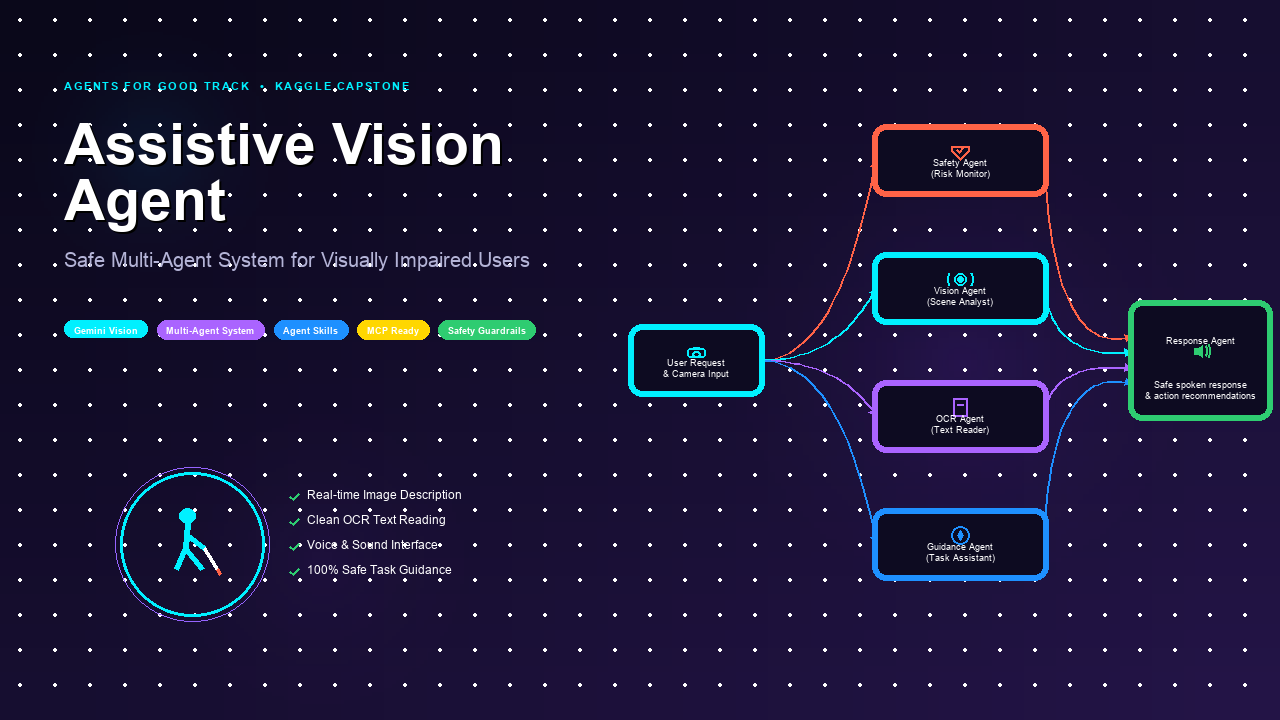
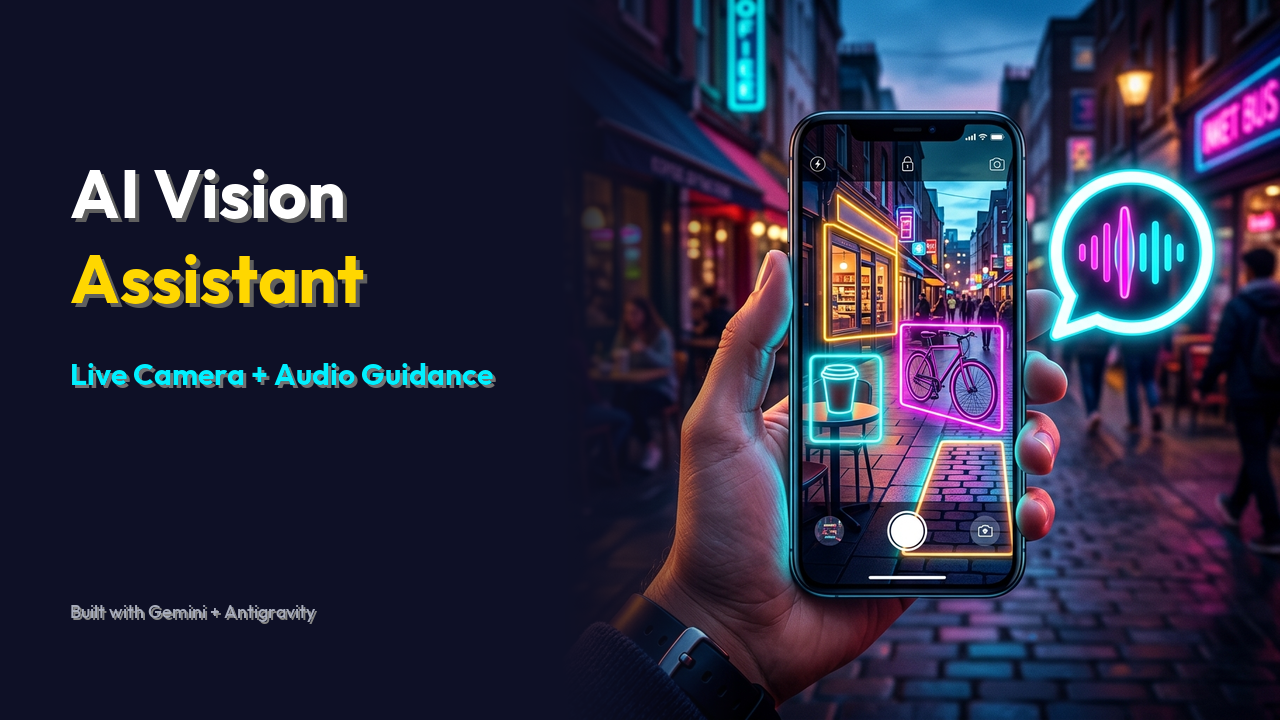
assets updated

diff --git a/assets/generate_visuals.py b/assets/generate_visuals.py
@@ -1,0 +1,270 @@
+import os
+import urllib.request
+import ssl
+from PIL import Image, ImageDraw, ImageFont, ImageFilter
+
+# Disable SSL verification for font downloads
+ssl._create_default_https_context = ssl._create_unverified_context
+
+# Paths
+BASE_DIR = "/Users/nikhilgollachannu/Desktop/KaggleCapstone/assistive-agent-vision"
+ASSETS_DIR = os.path.join(BASE_DIR, "assets")
+FONTS_DIR = os.path.join(ASSETS_DIR, "fonts")
+
+# Input generated images
+CARD_BASE_PATH = "/Users/nikhilgollachannu/.gemini/antigravity-ide/brain/baa18d08-56a4-4f38-a9a7-698bde54fbc6/assistive_vision_card_base_1782230559153.png"
+THUMBNAIL_BASE_PATH = "/Users/nikhilgollachannu/.gemini/antigravity-ide/brain/baa18d08-56a4-4f38-a9a7-698bde54fbc6/assistive_vision_thumbnail_base_1782230578253.png"
+
+# Output paths
+CARD_OUT_PATH = os.path.join(ASSETS_DIR, "kaggle_cover.png")
+THUMBNAIL_OUT_PATH = os.path.join(ASSETS_DIR, "youtube_thumbnail.png")
+
+def download_fonts():
+    os.makedirs(FONTS_DIR, exist_ok=True)
+    
+    fonts = {
+        "Outfit-Bold.ttf": "https://raw.githubusercontent.com/Outfitio/Outfit-Fonts/main/fonts/ttf/Outfit-Bold.ttf",
+        "Outfit-Medium.ttf": "https://raw.githubusercontent.com/Outfitio/Outfit-Fonts/main/fonts/ttf/Outfit-Medium.ttf",
+        "Outfit-Regular.ttf": "https://raw.githubusercontent.com/Outfitio/Outfit-Fonts/main/fonts/ttf/Outfit-Regular.ttf"
+    }
+    
+    print("Checking/Downloading fonts...")
+    for font_name, url in fonts.items():
+        path = os.path.join(FONTS_DIR, font_name)
+        if not os.path.exists(path):
+            print(f"Downloading {font_name} from Google Fonts repository...")
+            try:
+                urllib.request.urlretrieve(url, path)
+                print(f"Successfully downloaded {font_name}")
+            except Exception as e:
+                print(f"Error downloading {font_name}: {e}")
+        else:
+            print(f"{font_name} already exists.")
+
+def get_font(name, size):
+    path = os.path.join(FONTS_DIR, name)
+    if os.path.exists(path):
+        try:
+            return ImageFont.truetype(path, size)
+        except Exception as e:
+            print(f"Error loading {name}: {e}. Falling back to default.")
+    
+    # Fallback to system fonts
+    fallbacks = [
+        "/System/Library/Fonts/Helvetica.ttc",
+        "/System/Library/Fonts/Supplemental/Arial.ttf",
+        "/Library/Fonts/Arial.ttf"
+    ]
+    for fb in fallbacks:
+        if os.path.exists(fb):
+            try:
+                return ImageFont.truetype(fb, size)
+            except Exception:
+                pass
+    return ImageFont.load_default()
+
+def create_gradient_background(width, height, left_color, right_color):
+    """Creates a smooth linear horizontal gradient."""
+    base = Image.new("RGBA", (width, height), left_color)
+    top = Image.new("RGBA", (width, height), right_color)
+    
+    # Create gradient mask
+    mask = Image.new("L", (width, height))
+    mask_data = []
+    for y in range(height):
+        for x in range(width):
+            mask_data.append(int(255 * (x / width)))
+    mask.putdata(mask_data)
+    
+    base.alpha_composite(top, dest=(0, 0), source=(0, 0))
+    # We blend them
+    return Image.composite(top, base, mask)
+
+def fade_left_edge(img, fade_width=120):
+    """Smoothly fades the left edge of an image to transparent."""
+    img = img.convert("RGBA")
+    width, height = img.size
+    
+    # Split alpha
+    r, g, b, alpha = img.split()
+    alpha_data = list(alpha.getdata())
+    
+    for y in range(height):
+        for x in range(fade_width):
+            idx = y * width + x
+            factor = x / fade_width
+            alpha_data[idx] = int(alpha_data[idx] * factor)
+            
+    new_alpha = Image.new("L", img.size)
+    new_alpha.putdata(alpha_data)
+    
+    return Image.merge("RGBA", (r, g, b, new_alpha))
+
+def draw_badge(draw, text, font, x, y, text_color, border_color, bg_color):
+    bbox = draw.textbbox((0, 0), text, font=font)
+    w = bbox[2] - bbox[0]
+    h = bbox[3] - bbox[1]
+    
+    pad_x = 16
+    pad_y = 10
+    badge_w = w + pad_x * 2
+    badge_h = h + pad_y * 2
+    
+    # Rounded rect border
+    draw.rounded_rectangle(
+        [x, y, x + badge_w, y + badge_h],
+        radius=8,
+        fill=bg_color,
+        outline=border_color,
+        width=1
+    )
+    
+    # Draw text (vertically centered)
+    draw.text((x + pad_x, y + pad_y - 2), text, fill=text_color, font=font)
+    return badge_w, badge_h
+
+def draw_text_with_shadow(draw, text, font, x, y, text_color, shadow_color, offset=(2, 2)):
+    # Draw shadow first
+    draw.text((x + offset[0], y + offset[1]), text, fill=shadow_color, font=font)
+    # Draw main text
+    draw.text((x, y), text, fill=text_color, font=font)
+
+def wrap_text(text, font, max_width, draw):
+    words = text.split(" ")
+    lines = []
+    current_line = []
+    
+    for word in words:
+        current_line.append(word)
+        line_str = " ".join(current_line)
+        bbox = draw.textbbox((0, 0), line_str, font=font)
+        w = bbox[2] - bbox[0]
+        if w > max_width:
+            current_line.pop()
+            lines.append(" ".join(current_line))
+            current_line = [word]
+            
+    if current_line:
+        lines.append(" ".join(current_line))
+    return lines
+
+def build_project_card():
+    print("Building Project Card...")
+    # Dimensions: 1200 x 630
+    width, height = 1200, 630
+    
+    # Colors: dark purple/blue gradient matching the base image background
+    # Left edge of base image is roughly #0c081e. Top is similar, bottom is blacker.
+    bg = create_gradient_background(width, height, (6, 4, 15, 255), (20, 13, 44, 255))
+    
+    # Load and resize base image
+    base_img = Image.open(CARD_BASE_PATH).convert("RGBA")
+    # Base is square, resize to height 630 (so 630x630)
+    base_img = base_img.resize((630, 630), Image.Resampling.LANCZOS)
+    
+    # Fade left edge of base image to blend seamlessly
+    base_img = fade_left_edge(base_img, fade_width=150)
+    
+    # Composite base image on the right
+    bg.alpha_composite(base_img, dest=(570, 0))
+    
+    # Draw on canvas
+    draw = ImageDraw.Draw(bg)
+    
+    # Load fonts
+    font_title = get_font("Outfit-Bold.ttf", 52)
+    font_subtitle = get_font("Outfit-Regular.ttf", 22)
+    font_badge = get_font("Outfit-Medium.ttf", 14)
+    
+    # Draw Title
+    title_text = "Assistive Vision Agent"
+    draw_text_with_shadow(draw, title_text, font_title, 70, 120, (255, 255, 255, 255), (0, 0, 0, 120), (3, 3))
+    
+    # Draw Subtitle
+    sub_text = "Gemini-powered live camera guidance for visually impaired users"
+    wrapped_sub = wrap_text(sub_text, font_subtitle, 480, draw)
+    
+    curr_y = 205
+    for line in wrapped_sub:
+        draw.text((70, curr_y), line, fill=(209, 201, 255, 255), font=font_subtitle)
+        curr_y += 32
+        
+    # Draw Badges (Multi-Agent AI, Gemini Vision, Live Assist, Safety Guardrails)
+    badge_y = curr_y + 45
+    
+    # Badge configuration: text, colors (text_color, border_color, bg_color)
+    badges = [
+        ("Multi-Agent AI", (0, 240, 255, 255), (0, 240, 255, 100), (0, 240, 255, 15)),
+        ("Gemini Vision", (168, 85, 247, 255), (168, 85, 247, 100), (168, 85, 247, 15)),
+        ("Live Assist", (251, 191, 36, 255), (251, 191, 36, 100), (251, 191, 36, 15)),
+        ("Safety Guardrails", (34, 197, 94, 255), (34, 197, 94, 100), (34, 197, 94, 15))
+    ]
+    
+    # Draw badges in 2 rows
+    # Row 1
+    w1, h1 = draw_badge(draw, badges[0][0], font_badge, 70, badge_y, badges[0][1], badges[0][2], badges[0][3])
+    draw_badge(draw, badges[1][0], font_badge, 70 + w1 + 15, badge_y, badges[1][1], badges[1][2], badges[1][3])
+    
+    # Row 2
+    badge_y += h1 + 15
+    w2, h2 = draw_badge(draw, badges[2][0], font_badge, 70, badge_y, badges[2][1], badges[2][2], badges[2][3])
+    draw_badge(draw, badges[3][0], font_badge, 70 + w2 + 15, badge_y, badges[3][1], badges[3][2], badges[3][3])
+    
+    # Save image
+    bg.save(CARD_OUT_PATH, "PNG")
+    print(f"Project Card saved to {CARD_OUT_PATH}")
+
+def build_thumbnail():
+    print("Building YouTube Thumbnail...")
+    # Dimensions: 1280 x 720
+    width, height = 1280, 720
+    
+    # Background gradient: very dark indigo/blue
+    bg = create_gradient_background(width, height, (5, 6, 14, 255), (14, 16, 38, 255))
+    
+    # Load and resize base image
+    base_img = Image.open(THUMBNAIL_BASE_PATH).convert("RGBA")
+    # Base is square, resize to height 720 (so 720x720)
+    base_img = base_img.resize((720, 720), Image.Resampling.LANCZOS)
+    
+    # Fade left edge to blend
+    base_img = fade_left_edge(base_img, fade_width=180)
+    
+    # Composite base image on the right
+    bg.alpha_composite(base_img, dest=(560, 0))
+    
+    # Draw on canvas
+    draw = ImageDraw.Draw(bg)
+    
+    # Load fonts
+    font_main_title = get_font("Outfit-Bold.ttf", 68)
+    font_sec_text = get_font("Outfit-Bold.ttf", 30)
+    font_small = get_font("Outfit-Medium.ttf", 18)
+    
+    # Draw Main Text (YouTube Thumbnail style: high impact, neon yellow/cyan accent)
+    # Line 1: AI Vision (white)
+    # Line 2: Assistant (cyan/yellow)
+    y_pos = 150
+    draw_text_with_shadow(draw, "AI Vision", font_main_title, 70, y_pos, (255, 255, 255, 255), (0, 0, 0, 160), (4, 4))
+    
+    y_pos += 85
+    # Use neon cyan or neon yellow. The street has neon yellow outlines and cyan speech bubble.
+    # Yellow makes it stand out immensely! Let's use neon yellow (#ffd700 or #ffe600)
+    draw_text_with_shadow(draw, "Assistant", font_main_title, 70, y_pos, (255, 215, 0, 255), (0, 0, 0, 160), (4, 4))
+    
+    # Draw Secondary Text
+    y_pos += 120
+    draw_text_with_shadow(draw, "Live Camera + Audio Guidance", font_sec_text, 70, y_pos, (0, 240, 255, 255), (0, 0, 0, 140), (3, 3))
+    
+    # Draw Small text at the bottom
+    draw_text_with_shadow(draw, "Built with Gemini + Antigravity", font_small, 70, 600, (170, 175, 190, 255), (0, 0, 0, 120), (2, 2))
+    
+    # Save image
+    bg.save(THUMBNAIL_OUT_PATH, "PNG")
+    print(f"Thumbnail saved to {THUMBNAIL_OUT_PATH}")
+
+if __name__ == "__main__":
+    download_fonts()
+    build_project_card()
+    build_thumbnail()
+    print("Done generating visuals!")